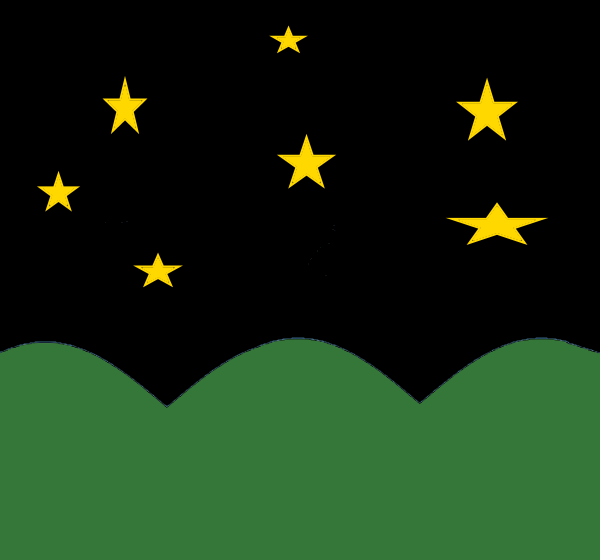
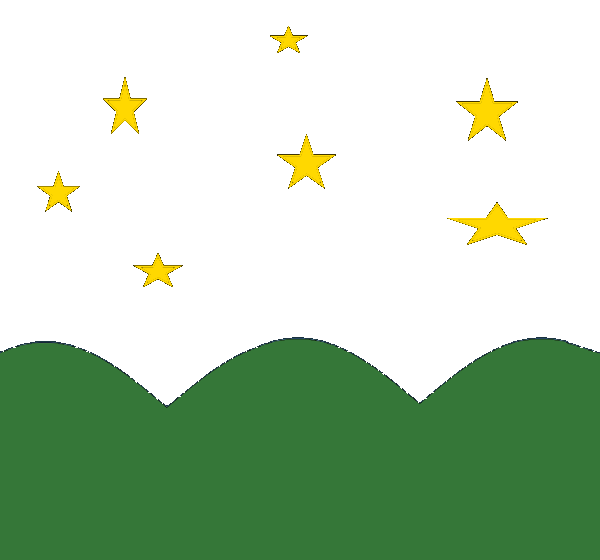
Repackaged graphics, gradual fade to times added

diff --git a/Runner/src/runner/graphics/Paint.java b/Runner/src/runner/graphics/Paint.java
@@ -1,4 +1,4 @@
-package runner;
+package runner.graphics;
 
 import java.awt.Color;
 import java.awt.Graphics;
@@ -8,6 +8,9 @@ import java.util.Random;
 
 import javax.swing.JPanel;
 
+import runner.GameOver;
+import runner.HighScores;
+import runner.Runner;
 import runner.obstacles.Overhang;
 import runner.obstacles.Pit;
 import runner.obstacles.Triangle;
@@ -27,51 +30,35 @@ public class Paint extends JPanel
 	private int numt = rand.nextInt(3) + 1;
 	public static int space = rand.nextInt(200 - 160 + 1) + 160;
 
-	private int textNum = 0;
-
 	private Image hills = Toolkit.getDefaultToolkit().createImage("resources/RollingHills.png");
 	private Image hill2 = Toolkit.getDefaultToolkit().createImage("resources/Hills2.png");
 	private Image night = Toolkit.getDefaultToolkit().createImage("resources/night.png");
 	private Image night2 = Toolkit.getDefaultToolkit().createImage("resources/night2.png");
 
-	private boolean upText = false;
-
 	@Override
 	protected void paintComponent(Graphics g) {
 
 		super.paintComponent(g);
-		g.drawImage(getBackImage(textNum)[0], 0, 0, null);
-		// g.drawImage(hills, 0, 0, null);
-
-		if (passed % 15 == 0 && passed > 0)
+		if (Runner.day && Runner.wait)
 		{
-
-			if (textNum < 1 && upText)
-			{
-				textNum++;
-				upText = false;
-
-			}
-			else if (upText)
-			{
-				textNum = 0;
-				upText = false;
-
-			}
-
+			setBackground(BackColor.getBackColor(Runner.time, "day"));
+		}
+		else if (!Runner.day && Runner.wait)
+		{
+			setBackground(BackColor.getBackColor(Runner.time, "night"));
+		}
+		else
+		{
+			setBackground(BackColor.getBackColor(Runner.time, "tran"));
 		}
 
-		if (passed % 16 == 0 && passed > 0)
-		{
-			upText = true;
-
-		}
+		// g.drawImage(getBackImage()[0], 0, 0, null);
 
 		if (Runner.shouldUPPos)
 		{
-			g.drawImage(getBackImage(textNum)[0], Runner.pPos - 600, 0, Runner.pPos, 560, 0, 0, 600, 560, null);
-			g.drawImage(getBackImage(textNum)[1], Runner.pPos, 0, Runner.pPos + 600, 560, 0, 0, 600, 560, null);
-			g.drawImage(getBackImage(textNum)[0], Runner.pPos + 600, 0, Runner.pPos + 1200, 560, 0, 0, 600, 560, null);
+			g.drawImage(getBackImage()[0], Runner.pPos - 600, 0, Runner.pPos, 560, 0, 0, 600, 560, null);
+			g.drawImage(getBackImage()[1], Runner.pPos, 0, Runner.pPos + 600, 560, 0, 0, 600, 560, null);
+			g.drawImage(getBackImage()[0], Runner.pPos + 600, 0, Runner.pPos + 1200, 560, 0, 0, 600, 560, null);
 			if (Runner.pPos == -600)
 			{
 				Runner.altPpos = -1200;
@@ -80,15 +67,19 @@ public class Paint extends JPanel
 		}
 		else
 		{
-			g.drawImage(hills, Runner.altPpos - 600, 0, Runner.altPpos, 560, 0, 0, 600, 560, null);
-			g.drawImage(hill2, Runner.altPpos, 0, Runner.altPpos + 600, 560, 0, 0, 600, 560, null);
-			g.drawImage(hills, Runner.altPpos + 600, 0, Runner.altPpos + 1200, 560, 0, 0, 600, 560, null);
+			g.drawImage(getBackImage()[0], Runner.altPpos - 600, 0, Runner.altPpos, 560, 0, 0, 600, 560, null);
+			g.drawImage(getBackImage()[1], Runner.altPpos, 0, Runner.altPpos + 600, 560, 0, 0, 600, 560, null);
+			g.drawImage(getBackImage()[0], Runner.altPpos + 600, 0, Runner.altPpos + 1200, 560, 0, 0, 600, 560, null);
 			if (Runner.altPpos + 600 <= 620)
 			{
 				Runner.pPos = 600;
 				Runner.shouldUPPos = true;
 			}
 		}
+
+		g.drawImage(getBackImage()[0], Runner.pPos - 600, 0, Runner.pPos, 560, 0, 0, 600, 560, null);
+		g.drawImage(getBackImage()[1], Runner.pPos, 0, Runner.pPos + 600, 560, 0, 0, 600, 560, null);
+		g.drawImage(getBackImage()[0], Runner.pPos + 600, 0, Runner.pPos + 1200, 560, 0, 0, 600, 560, null);
 
 		// -------------------Handle game over screen --------------------\\
 
@@ -244,13 +235,13 @@ public class Paint extends JPanel
 
 	}
 
-	private Image[] getBackImage(int num) {
-		switch (num)
+	private Image[] getBackImage() {
+		if (!Runner.day)
 		{
-		case 1:
 			return new Image[] { night, night2 };
-
-		default:
+		}
+		else
+		{
 			return new Image[] { hills, hill2 };
 		}
 	}

diff --git a/Runner/src/runner/Runner.java b/Runner/src/runner/Runner.java
@@ -9,6 +9,7 @@ import java.awt.event.KeyListener;
 import javax.swing.JFrame;
 import javax.swing.Timer;
 
+import runner.graphics.Paint;
 import runner.player.Player;
 import runner.player.RotationHandler;
 
@@ -137,6 +138,13 @@ public class Runner extends JFrame implements ActionListener, KeyListener
 	public static boolean shouldUPPos = true;
 	public static int altPpos = -1200;
 
+	private int count = 1;
+	public static int time = 1;
+	public static boolean day = true;
+
+	public static boolean wait = true;
+	private int wTime = 1;
+
 	@Override
 	public void actionPerformed(ActionEvent e) {
 		if (!gameOver)
@@ -176,6 +184,46 @@ public class Runner extends JFrame implements ActionListener, KeyListener
 			}
 			HighScores.writeScores();
 			once++;
+		}
+
+		if (count < (1000 / 30))
+		{
+			count++;
+		}
+		else if (count == (1000 / 30))
+		{
+			if (day && !wait)
+			{
+				time += 1;
+				if (time == 30)
+				{
+					wait = true;
+					day = false;
+				}
+			}
+			else if (!wait)
+			{
+				time -= 1;
+				if (time == 0)
+				{
+					wait = true;
+					day = true;
+				}
+			}
+
+			if (wTime < 60 && wait)
+			{
+				wTime += 1;
+			}
+			else if (wTime == 60 && wait)
+			{
+				wait = false;
+				wTime = 1;
+			}
+
+			// System.out.println(time);
+
+			count = 1;
 		}
 
 		repaint();

diff --git a/Runner/src/runner/graphics/BackColor.java b/Runner/src/runner/graphics/BackColor.java
@@ -1,0 +1,37 @@
+package runner.graphics;
+
+import java.awt.Color;
+
+public class BackColor
+{
+	private static int[] day = { 104, 204, 255 };
+	private static int mult = 8;
+
+	// && day[1] - (shade * mult) >= 0 && day[2] - (shade * mult) >= 0
+
+	public static Color getBackColor(int shade, String time) {
+		if (time == "day")
+		{
+			return new Color(day[0], day[1], day[2]);
+		}
+		else if (time == "tran")
+		{
+			if (day[0] - (shade * mult) >= 0)
+			{
+				return new Color(day[0] - (shade * mult), day[1] - (shade * mult), day[2] - (shade * mult));
+			}
+			else if (day[1] - (shade * mult) >= 0)
+			{
+				return new Color(0, day[1] - (shade * mult), day[2] - (shade * mult));
+			}
+			else
+			{
+				return new Color(0, 0, day[2] - (shade * mult));
+			}
+		}
+		else
+		{
+			return new Color(0, 0, 0);
+		}
+	}
+}

diff --git a/Runner/src/runner/HighScores.java b/Runner/src/runner/HighScores.java
@@ -9,6 +9,8 @@ import java.io.ObjectOutputStream;
 import javax.swing.JFrame;
 import javax.swing.JOptionPane;
 
+import runner.graphics.Paint;
+
 public class HighScores
 {
 	private static String name = "";

diff --git a/Runner/src/runner/player/Player.java b/Runner/src/runner/player/Player.java
@@ -1,7 +1,7 @@
 package runner.player;
 
-import runner.Paint;
 import runner.Runner;
+import runner.graphics.Paint;
 
 /*
  * These methods will track the changes to the player's

diff --git a/Runner/src/runner/GameOver.java b/Runner/src/runner/GameOver.java
@@ -1,5 +1,6 @@
 package runner;
 
+import runner.graphics.Paint;
 import runner.player.Player;
 
 public class GameOver
